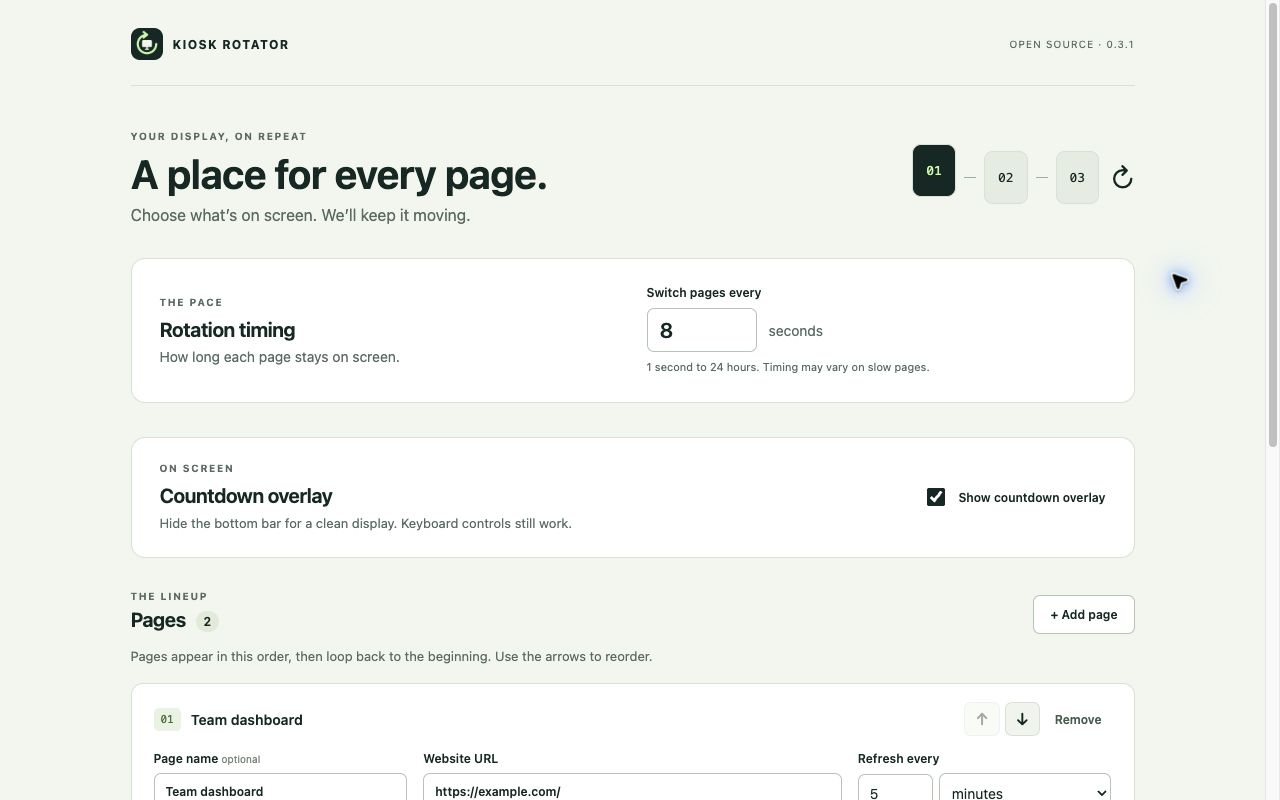
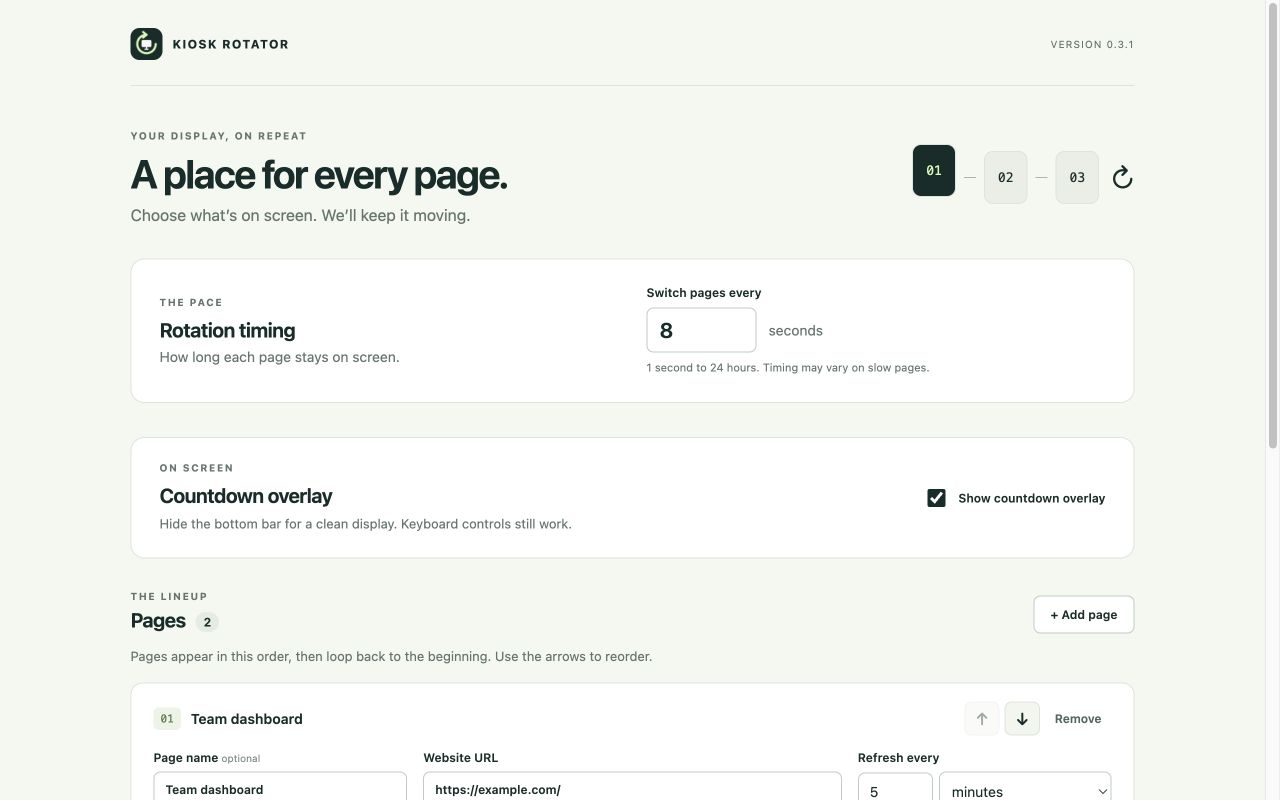
Remove open-source claims from store marketing

diff --git a/store/artwork/rotation-showcase.html b/store/artwork/rotation-showcase.html
@@ -1,3 +1,3 @@
 <!doctype html><html><head><meta charset="utf-8"><title>Kiosk Rotator — automatic dashboard rotation</title><style>
 *{box-sizing:border-box}body{margin:0;background:#142d29;color:#f5f7f1;font-family:-apple-system,BlinkMacSystemFont,'Segoe UI',sans-serif;width:1280px;height:800px;overflow:hidden}.brand{position:absolute;left:56px;top:42px;display:flex;align-items:center;gap:14px;font-size:17px;letter-spacing:2px;font-weight:700}.brand img{width:56px;height:56px}.copy{position:absolute;left:56px;top:199px;width:490px}h1{font-size:55px;letter-spacing:-2.3px;line-height:1.1;margin:0 0 26px;font-weight:650}h1 span{color:#d3f8b6}.copy p{font-size:21px;line-height:1.55;color:#bdcebf;margin:0;max-width:410px}.features{margin-top:30px;display:flex;gap:9px;flex-wrap:wrap;max-width:440px}.features span{font-size:13px;border:1px solid #547160;border-radius:7px;padding:9px 12px;color:#d3f8b6}.frame{position:absolute;left:580px;top:235px;width:644px;height:286px;background:#f5f7f1;border-radius:14px;overflow:hidden;box-shadow:0 24px 64px #061a2366}iframe{width:1080px;height:558px;transform:scale(.5963);transform-origin:top left;border:0}.caption{position:absolute;left:580px;top:548px;font-size:13px;color:#a9c1ae}.bottom{position:absolute;left:56px;bottom:42px;color:#9bb8a3;font-size:12px;letter-spacing:1.8px}.sequence{position:absolute;left:580px;top:156px;display:flex;gap:12px;align-items:center;color:#d3f8b6;font-size:13px}.sequence span{border:1px solid #426451;border-radius:8px;padding:13px 15px}.sequence span:first-child{background:#d3f8b6;color:#142d29;border-color:#d3f8b6}.sequence b{font-weight:400}.note{position:absolute;left:580px;top:591px;width:580px;font-size:15px;line-height:1.6;color:#bdcebf}
-</style></head><body><div class="brand"><img src="icons/icon-48.png" alt="">KIOSK ROTATOR</div><div class="copy"><h1>Multiple dashboards.<br><span>One unattended<br>display.</span></h1><p>Automatically cycle through dashboards, status pages, and information sites on a single screen.</p><div class="features"><span>Automatic rotation</span><span>Per-page refresh</span><span>Optional countdown</span></div></div><div class="sequence" aria-label="Pages repeat automatically"><span>Dashboard</span><b>→</b><span>Status page</span><b>→</b><span>Information site</span><b>↻</b></div><div class="frame"><iframe src="options.html" title="Example page lineup"></iframe></div><div class="caption">Your rotating lineup · Example settings</div><div class="note">Choose your pages. Set the interval. Start the display.<br>The pages rotate while the browser is open and the computer is awake.</div><div class="bottom">OPEN SOURCE · LOCAL SETTINGS · NO ACCOUNT REQUIRED</div><script>document.querySelector('iframe').addEventListener('load',event=>{const doc=event.target.contentDocument;event.target.contentWindow.scrollTo(0,doc.querySelector('.pages').getBoundingClientRect().top-22);});</script></body></html>
+</style></head><body><div class="brand"><img src="icons/icon-48.png" alt="">KIOSK ROTATOR</div><div class="copy"><h1>Multiple dashboards.<br><span>One unattended<br>display.</span></h1><p>Automatically cycle through dashboards, status pages, and information sites on a single screen.</p><div class="features"><span>Automatic rotation</span><span>Per-page refresh</span><span>Optional countdown</span></div></div><div class="sequence" aria-label="Pages repeat automatically"><span>Dashboard</span><b>→</b><span>Status page</span><b>→</b><span>Information site</span><b>↻</b></div><div class="frame"><iframe src="options.html" title="Example page lineup"></iframe></div><div class="caption">Your rotating lineup · Example settings</div><div class="note">Choose your pages. Set the interval. Start the display.<br>The pages rotate while the browser is open and the computer is awake.</div><div class="bottom">LOCAL SETTINGS · NO ACCOUNT REQUIRED</div><script>document.querySelector('iframe').addEventListener('load',event=>{const doc=event.target.contentDocument;event.target.contentWindow.scrollTo(0,doc.querySelector('.pages').getBoundingClientRect().top-22);});</script></body></html>

diff --git a/extension/options.html b/extension/options.html
@@ -10,7 +10,7 @@
 </head>
 <body>
   <main>
-    <header class="masthead"><a class="brand" href="options.html" aria-label="Kiosk Rotator settings"><img class="brand-mark" src="icons/icon-48.png" alt=""><span>KIOSK ROTATOR</span></a><span class="version">OPEN SOURCE · 0.3.1</span></header>
+    <header class="masthead"><a class="brand" href="options.html" aria-label="Kiosk Rotator settings"><img class="brand-mark" src="icons/icon-48.png" alt=""><span>KIOSK ROTATOR</span></a><span class="version">VERSION 0.3.1</span></header>
     <section class="intro">
       <div><p class="eyebrow">YOUR DISPLAY, ON REPEAT</p><h1>A place for every page.</h1><p class="lede">Choose what’s on screen. We’ll keep it moving.</p></div>
       <div class="loop-preview" aria-hidden="true"><span>01</span><i></i><span>02</span><i></i><span>03</span><b>↻</b></div>

diff --git a/store/listing.md b/store/listing.md
@@ -25,18 +25,18 @@ WHEN YOU NEED TO MAKE AN ADJUSTMENT
 • Switching to an unrelated tab in the display window pauses rotation.
 • Stopping leaves your tabs open.
 
-LOCAL AND OPEN SOURCE
+SETTINGS SAVED LOCALLY
 • No extension account, project server, advertising, or analytics.
 • Settings stay in your local browser profile; they are not synced between devices.
 • Website access is requested for the hosts you configure, when you save or start.
-• Source code and support: https://github.com/tomerp/chrome-kiosk-rotator
+• Support and project information: https://github.com/tomerp/chrome-kiosk-rotator
 
 BEFORE YOU START
 Kiosk Rotator manages one display window at a time. It does not lock down the computer, launch the browser, sign into websites, or automatically resume after a browser restart. Start the display again after restarting or updating the extension.
 
 Rotation timing is best-effort. Sleep, slow or restricted pages, and browser throttling can delay switching; recovery may take 30 seconds or more. A single-page display does not auto-refresh. Websites retain their own login requirements and privacy practices.
 
-For use with Google Chrome™ 120 or later. Google Chrome is a trademark of Google LLC. Kiosk Rotator is an independent open-source project and is not affiliated with or endorsed by Google.
+For use with Google Chrome™ 120 or later. Google Chrome is a trademark of Google LLC. Kiosk Rotator is an independent project and is not affiliated with or endorsed by Google.
 
 ## Suggested category and language
 Productivity (choose the closest matching category available in the dashboard).

diff --git a/README.md b/README.md
@@ -118,7 +118,7 @@ Version 0.3.1 adds the Kiosk Rotator name and icon. The store listing, privacy-f
 1. Test the preview in real Chrome with representative dashboards, including a packaged build and long-running sessions.
 2. Extend the settings screen with import/export.
 3. Complete accessibility checks and add operating-system deployment guides.
-4. Publish the same open-source project as a reviewed Chrome Web Store extension.
+4. Publish the extension through the Chrome Web Store.
 
 Feedback and focused contributions are welcome. When reporting problems, include Chrome/OS versions, rotation interval, expected behavior, and a public reproduction URL when possible.
 
